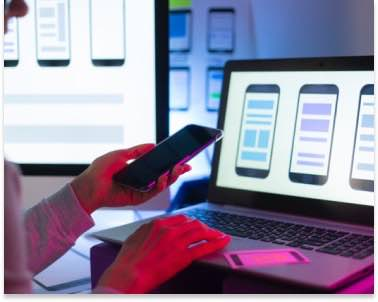
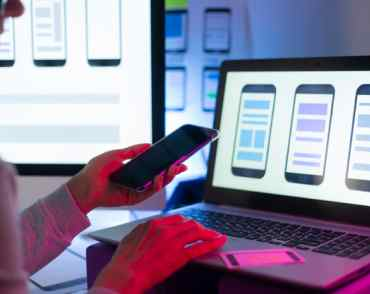
homework3

diff --git a/css/styles.css b/css/styles.css
@@ -22,9 +22,14 @@ body {
 
 .header {
   background: var(--white);
-  border-bottom: solid #ececec;
-  margin-bottom: 1px;
+  border-bottom: 1px solid #ececec;
 } 
+
+img {
+  display: block;
+  max-width: 100%;
+  height: auto;
+}
 
 
 .header-span,
@@ -224,12 +229,10 @@ body {
 
 .features-list {
   display: flex;
-  align-items: flex-start;
   list-style-type: none;
+  gap: 30px;
 }
-.features-list {
-  justify-content: center;
-}
+
 
 .features-second{
   padding-bottom: 94px;
@@ -237,23 +240,25 @@ body {
 }
 
 .features-list-second {
+  display: flex;
+  align-items: flex-start;
   list-style-type: none;
 }
 
 
 .features-second-container {
-  display: inline;
-  text-align: center;
+  /* text-align: center; */
 }
 
 .features-item-second {
-  display: inline;
+  /* display: flex; */
 
 }
 
-.features-item:not(:last-child) {
-  margin-right: 30px;
+.features-item {
+  flex-basis: calc((100%-90px) / 4);
 }
+
 .features-item-second:not(:last-child) {
   margin-right: 30px;
 }
@@ -369,14 +374,18 @@ body {
   line-height: 2;
   letter-spacing: 0.03em;
   color: var(--white);
-  margin-bottom: 20px;
+
 }
 
 .footer-contacts-list {
   list-style-type: none;
 }
 
-.adress {
+.address-first {
+  margin-top: 20px;
+}
+
+.address {
   font-family: "Roboto", sans-serif;
   font-style: normal;
   font-size: 14px;
@@ -416,7 +425,7 @@ body {
 .portfolio-title-text {
   padding: 20px 24px;
   background: #ffffff;
-  border: solid #eeeeee;
+  border: 1px solid #eeeeee;
   border-top: none;
 }
 

diff --git a/potfolio.html b/potfolio.html
@@ -140,10 +140,10 @@
      <footer class="footer">
       <div class="container">
         <a href="./index.html" class="footer-logo-link"><span class="footer-span">Web</span>Studio</a>
-        <address>
+        <address class="address-first">
         <ul class="footer-contacts-list">
           <li class="footer-items">
-            <a href="https://goo.gl/maps/Ecatq6JbWAXeqQZF9" target="_blank" rel="noopener noreffer" class="adress">м. Київ, пр-т Лесі Українки, 26</a>
+            <a href="https://goo.gl/maps/Ecatq6JbWAXeqQZF9" target="_blank" rel="noopener noreffer" class="address">м. Київ, пр-т Лесі Українки, 26</a>
           </li>
           <li class="footer-items">
             <a href="mailto:info@devstudio.com" class="footer-contacts-mail">info@devstudio.com</a>
@@ -153,7 +153,7 @@
           </li>
         </ul>
       </address>
-      </div>
+      </div> 
     </footer>
   </body>
 </html>

diff --git a/index.html b/index.html
@@ -147,10 +147,10 @@
     <footer class="footer">
       <div class="container">
         <a href="./index.html" class="footer-logo-link"><span class="footer-span">Web</span>Studio</a>
-        <address>
+        <address class="address-first">
         <ul class="footer-contacts-list">
           <li class="footer-items">
-            <a href="https://goo.gl/maps/Ecatq6JbWAXeqQZF9" target="_blank" rel="noopener noreffer" class="adress">м. Київ, пр-т Лесі Українки, 26</a>
+            <a href="https://goo.gl/maps/Ecatq6JbWAXeqQZF9" target="_blank" rel="noopener noreffer" class="address">м. Київ, пр-т Лесі Українки, 26</a>
           </li>
           <li class="footer-items">
             <a href="mailto:info@devstudio.com" class="footer-contacts-mail">info@devstudio.com</a>
